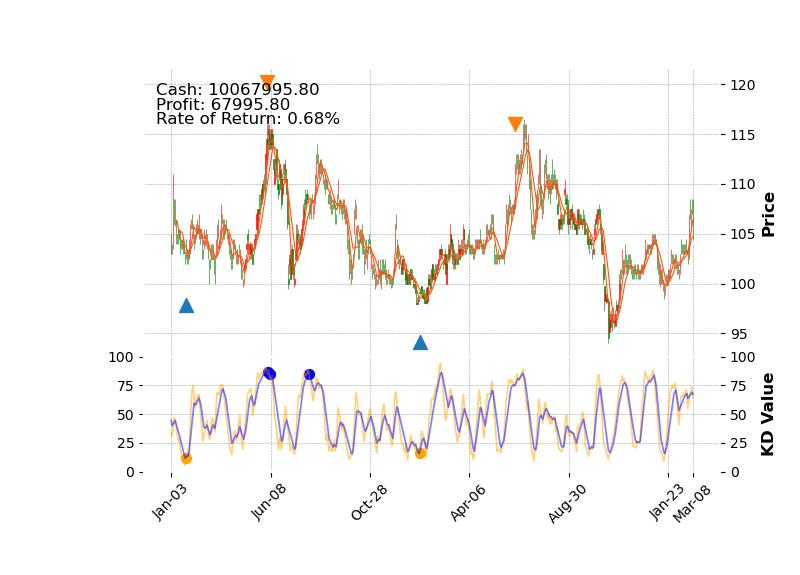
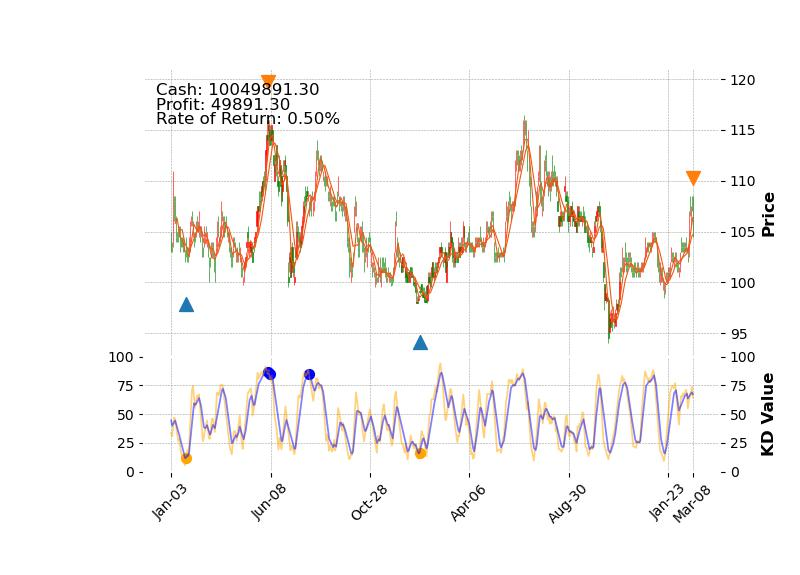
'修正現金模擬賣出條件(+death_cross)，並重測'

diff --git a/GUI.py b/GUI.py
@@ -110,7 +110,7 @@ def simulate_martingale_strategy(stock_data, threshold, initial_investment, init
                     investment_amount = initial_investment
                     max_profit_level = 0
                     continue
-            elif not use_trailing_stop and current_profit_percent >= stop_profit_percent:
+            elif not use_trailing_stop and current_profit_percent >= stop_profit_percent and row.name in death_cross:
                 sell(row)
                 investment_amount = initial_investment
                 continue
